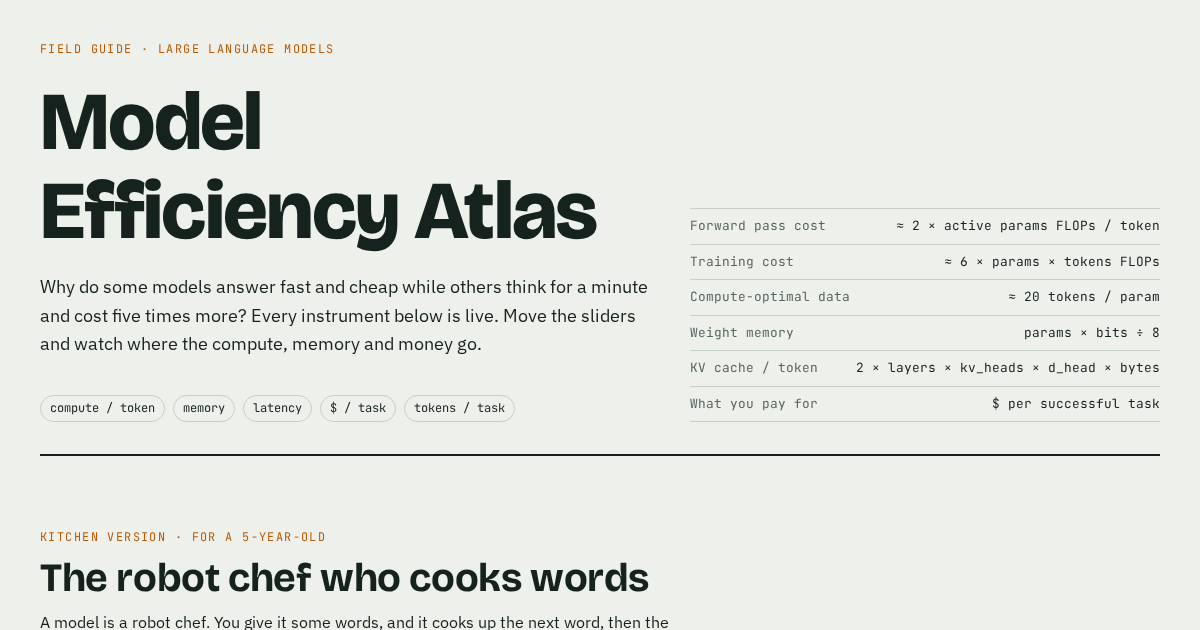
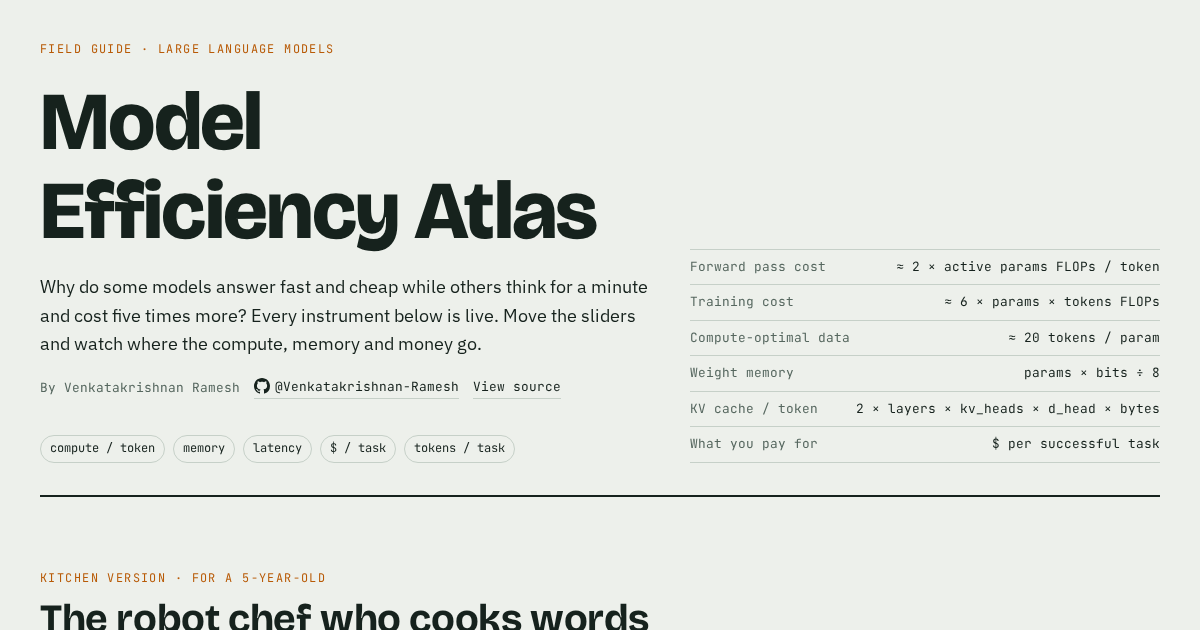
feat: add GitHub byline and source link to page header

Changed region(s): [[0.0308, 0.3317, 0.9867, 0.7238], [0.0308, 0.8444, 0.555, 1.0], [0.0617, 0.7841, 0.9558, 0.8143]]

diff --git a/index.html b/index.html
@@ -18,7 +18,11 @@
 <meta name="twitter:image" content="https://venkatakrishnan-ramesh.github.io/awesome-llm-efficiency/og-image.png">
 <meta name="twitter:title" content="Model Efficiency Atlas">
 <meta name="twitter:description" content="Interactive guide to how LLMs differ and where their efficiency comes from: Mixture-of-Experts, KV cache, quantization, speculative decoding, thinking budgets and cost per task, explained for a 5-year-old and an engineer.">
-<style>:root{padding-top:env(safe-area-inset-top,0px);padding-bottom:env(safe-area-inset-bottom,0px)}body{margin:0}img{max-width:100%}[hidden]{display:none!important}</style>
+<style>:root{padding-top:env(safe-area-inset-top,0px);padding-bottom:env(safe-area-inset-bottom,0px)}body{margin:0}img{max-width:100%}[hidden]{display:none!important}.byline{display:flex;flex-wrap:wrap;align-items:center;gap:6px 14px;font-family:var(--f-mono);font-size:.8rem;color:var(--muted)}
+.byline a{color:var(--ink);text-decoration:none;border-bottom:1px solid var(--rule);padding-bottom:1px;transition:border-color .15s,color .15s}
+.byline a:hover{color:var(--accent);border-color:var(--accent)}
+.byline svg{width:16px;height:16px;vertical-align:-3px;margin-right:5px;fill:currentColor}
+</style>
 <title>Model Efficiency Atlas</title>
 <link rel="preconnect" href="https://fonts.googleapis.com">
 <link rel="preconnect" href="https://fonts.gstatic.com" crossorigin>
@@ -175,6 +179,7 @@ th{font-family:var(--f-mono);font-size:.72rem;text-transform:uppercase;letter-sp
     <div class="eyebrow">Field guide · large language models</div>
     <h1>Model Efficiency Atlas</h1>
     <p>Why do some models answer fast and cheap while others think for a minute and cost five times more? Every instrument below is live. Move the sliders and watch where the compute, memory and money go.</p>
+    <div class="byline"><span>By Venkatakrishnan Ramesh</span><a href="https://github.com/Venkatakrishnan-Ramesh"><svg viewBox="0 0 16 16" aria-hidden="true"><path d="M8 0C3.58 0 0 3.58 0 8c0 3.54 2.29 6.53 5.47 7.59.4.07.55-.17.55-.38 0-.19-.01-.82-.01-1.49-2.01.37-2.53-.49-2.69-.94-.09-.23-.48-.94-.82-1.13-.28-.15-.68-.52-.01-.53.63-.01 1.08.58 1.23.82.72 1.21 1.87.87 2.33.66.07-.52.28-.87.51-1.07-1.78-.2-3.64-.89-3.64-3.95 0-.87.31-1.59.82-2.15-.08-.2-.36-1.02.08-2.12 0 0 .67-.21 2.2.82.64-.18 1.32-.27 2-.27.68 0 1.36.09 2 .27 1.53-1.04 2.2-.82 2.2-.82.44 1.1.16 1.92.08 2.12.51.56.82 1.27.82 2.15 0 3.07-1.87 3.75-3.65 3.95.29.25.54.73.54 1.48 0 1.07-.01 1.93-.01 2.2 0 .21.15.46.55.38A8.013 8.013 0 0016 8c0-4.42-3.58-8-8-8z"/></svg>@Venkatakrishnan-Ramesh</a><a href="https://github.com/Venkatakrishnan-Ramesh/awesome-llm-efficiency">View source</a></div>
     <div class="axes"><span>compute / token</span><span>memory</span><span>latency</span><span>$ / task</span><span>tokens / task</span></div>
   </div>
   <div class="spec">
